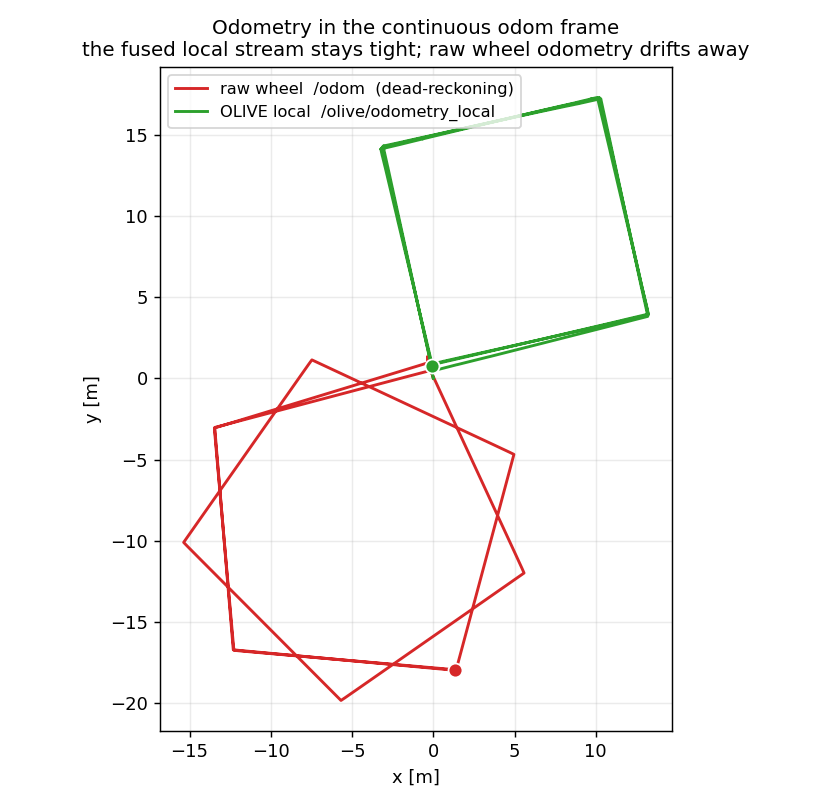
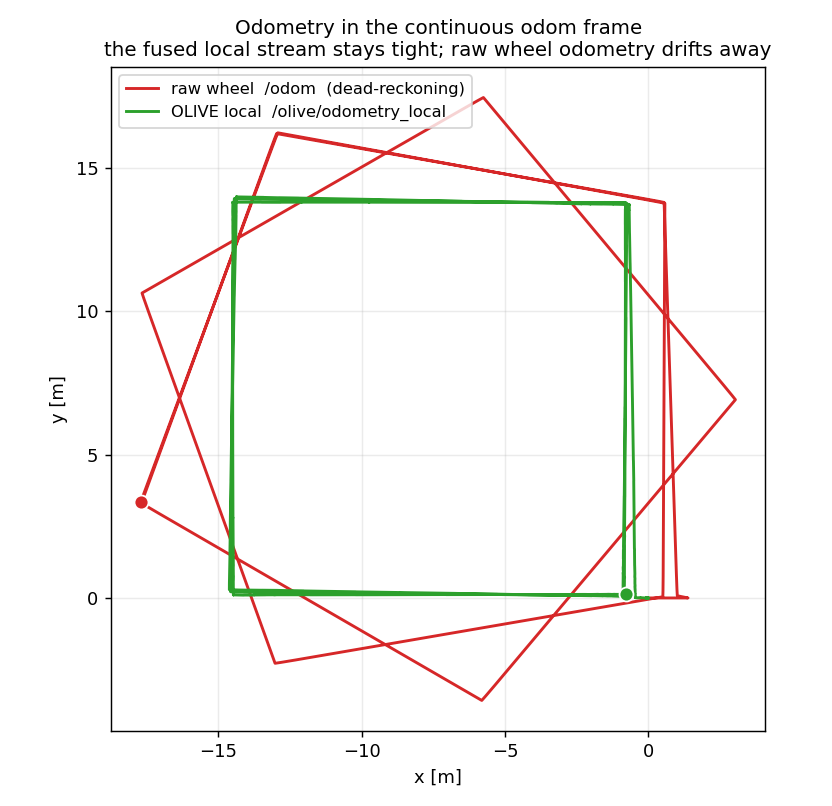
plot_results: align odom streams by full first pose (fix local-vs-wheel figure)

diff --git a/scripts/plot_results.py b/scripts/plot_results.py
@@ -89,9 +89,11 @@ try:
         elif topic == "/olive/odometry":
             fused.append((st(m.header), m.pose.pose.position.x, m.pose.pose.position.y))
         elif topic == "/olive/odometry_local":
-            local.append((st(m.header), m.pose.pose.position.x, m.pose.pose.position.y))
+            local.append((st(m.header), m.pose.pose.position.x, m.pose.pose.position.y,
+                          yaw_of(m.pose.pose.orientation)))
         elif topic == "/odom":
-            wheel.append((st(m.header), m.pose.pose.position.x, m.pose.pose.position.y))
+            wheel.append((st(m.header), m.pose.pose.position.x, m.pose.pose.position.y,
+                          yaw_of(m.pose.pose.orientation)))
         elif topic == "/olive/debug/bias":
             bias.append((st(m.header), m.accel.linear.x, m.accel.linear.y, m.accel.linear.z,
                          m.accel.angular.x, m.accel.angular.y, m.accel.angular.z))
@@ -144,14 +146,23 @@ fig.savefig(os.path.join(OUT, "trajectory.png"))
 plt.close(fig)
 
 # ---------------------------------------------------------------- Fig 2: smooth local vs raw wheel (odom frame)
-# Both streams live in the odom frame, which accumulates from sim start; shift
-# each to its own run-start so the comparison is the RELATIVE drift over the run
-# (fair no matter how much either stream had already drifted before recording).
+# Both streams live in the odom frame, which accumulates (position AND heading)
+# from sim start; express each RELATIVE to its own first pose so the comparison is
+# the relative motion over the run — fair no matter where/what-heading either stream
+# had drifted to before recording (on a fresh sim both first poses coincide).
+def align_first_pose(series):
+    x0, y0, yaw0 = series[0][1], series[0][2], series[0][3]
+    c, s = math.cos(-yaw0), math.sin(-yaw0)
+    xs, ys = [], []
+    for rec in series:
+        dx, dy = rec[1] - x0, rec[2] - y0
+        xs.append(dx * c - dy * s)
+        ys.append(dx * s + dy * c)
+    return xs, ys
+
 fig, ax = plt.subplots(figsize=(6.4, 6.2))
-wx0, wy0 = wheel[0][1], wheel[0][2]
-lx0, ly0 = local[0][1], local[0][2]
-wxr = [x - wx0 for _, x, _ in wheel]; wyr = [y - wy0 for _, _, y in wheel]
-lxr = [x - lx0 for _, x, _ in local]; lyr = [y - ly0 for _, _, y in local]
+wxr, wyr = align_first_pose(wheel)
+lxr, lyr = align_first_pose(local)
 ax.plot(wxr, wyr, color=C_WHEEL, lw=1.6, label="raw wheel  /odom  (dead-reckoning)")
 ax.plot(lxr, lyr, color=C_LOCAL, lw=1.6, label="OLIVE local  /olive/odometry_local")
 ax.scatter([wxr[-1]], [wyr[-1]], s=60, c=C_WHEEL, zorder=5, edgecolors="white")
@@ -244,7 +255,7 @@ vo_drift = None
 if vo:
     def rel(series):
         x0, y0 = series[0][1], series[0][2]
-        return [x - x0 for _, x, _ in series], [y - y0 for _, _, y in series]
+        return [r[1] - x0 for r in series], [r[2] - y0 for r in series]
 
     fig, ax = plt.subplots(figsize=(6.4, 6.2))
     gxr, gyr = rel(gt)